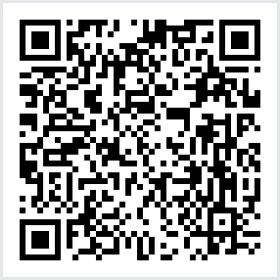
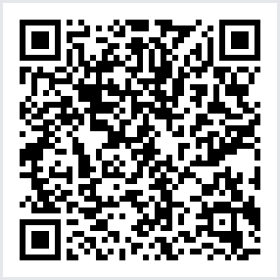
Adicionei o pix da nicoly

diff --git a/AppEnfermagem/ViewModels/AjudaViewModel.cs b/AppEnfermagem/ViewModels/AjudaViewModel.cs
@@ -22,7 +22,7 @@ public partial class AjudaViewModel : ObservableObject
     [RelayCommand]
     private async Task CopyPix()
     {
-        await Clipboard.Default.SetTextAsync("00020126330014BR.GOV.BCB.PIX0111422403428035204000053039865802BR5901N6001C62070503***63047C2B");
+        await Clipboard.Default.SetTextAsync("00020126360014BR.GOV.BCB.PIX0114+55119393944275204000053039865802BR5901N6001C62070503***6304C18A");
 
         string original = CopyButtonText;
         CopyButtonText = "Copiado!";
